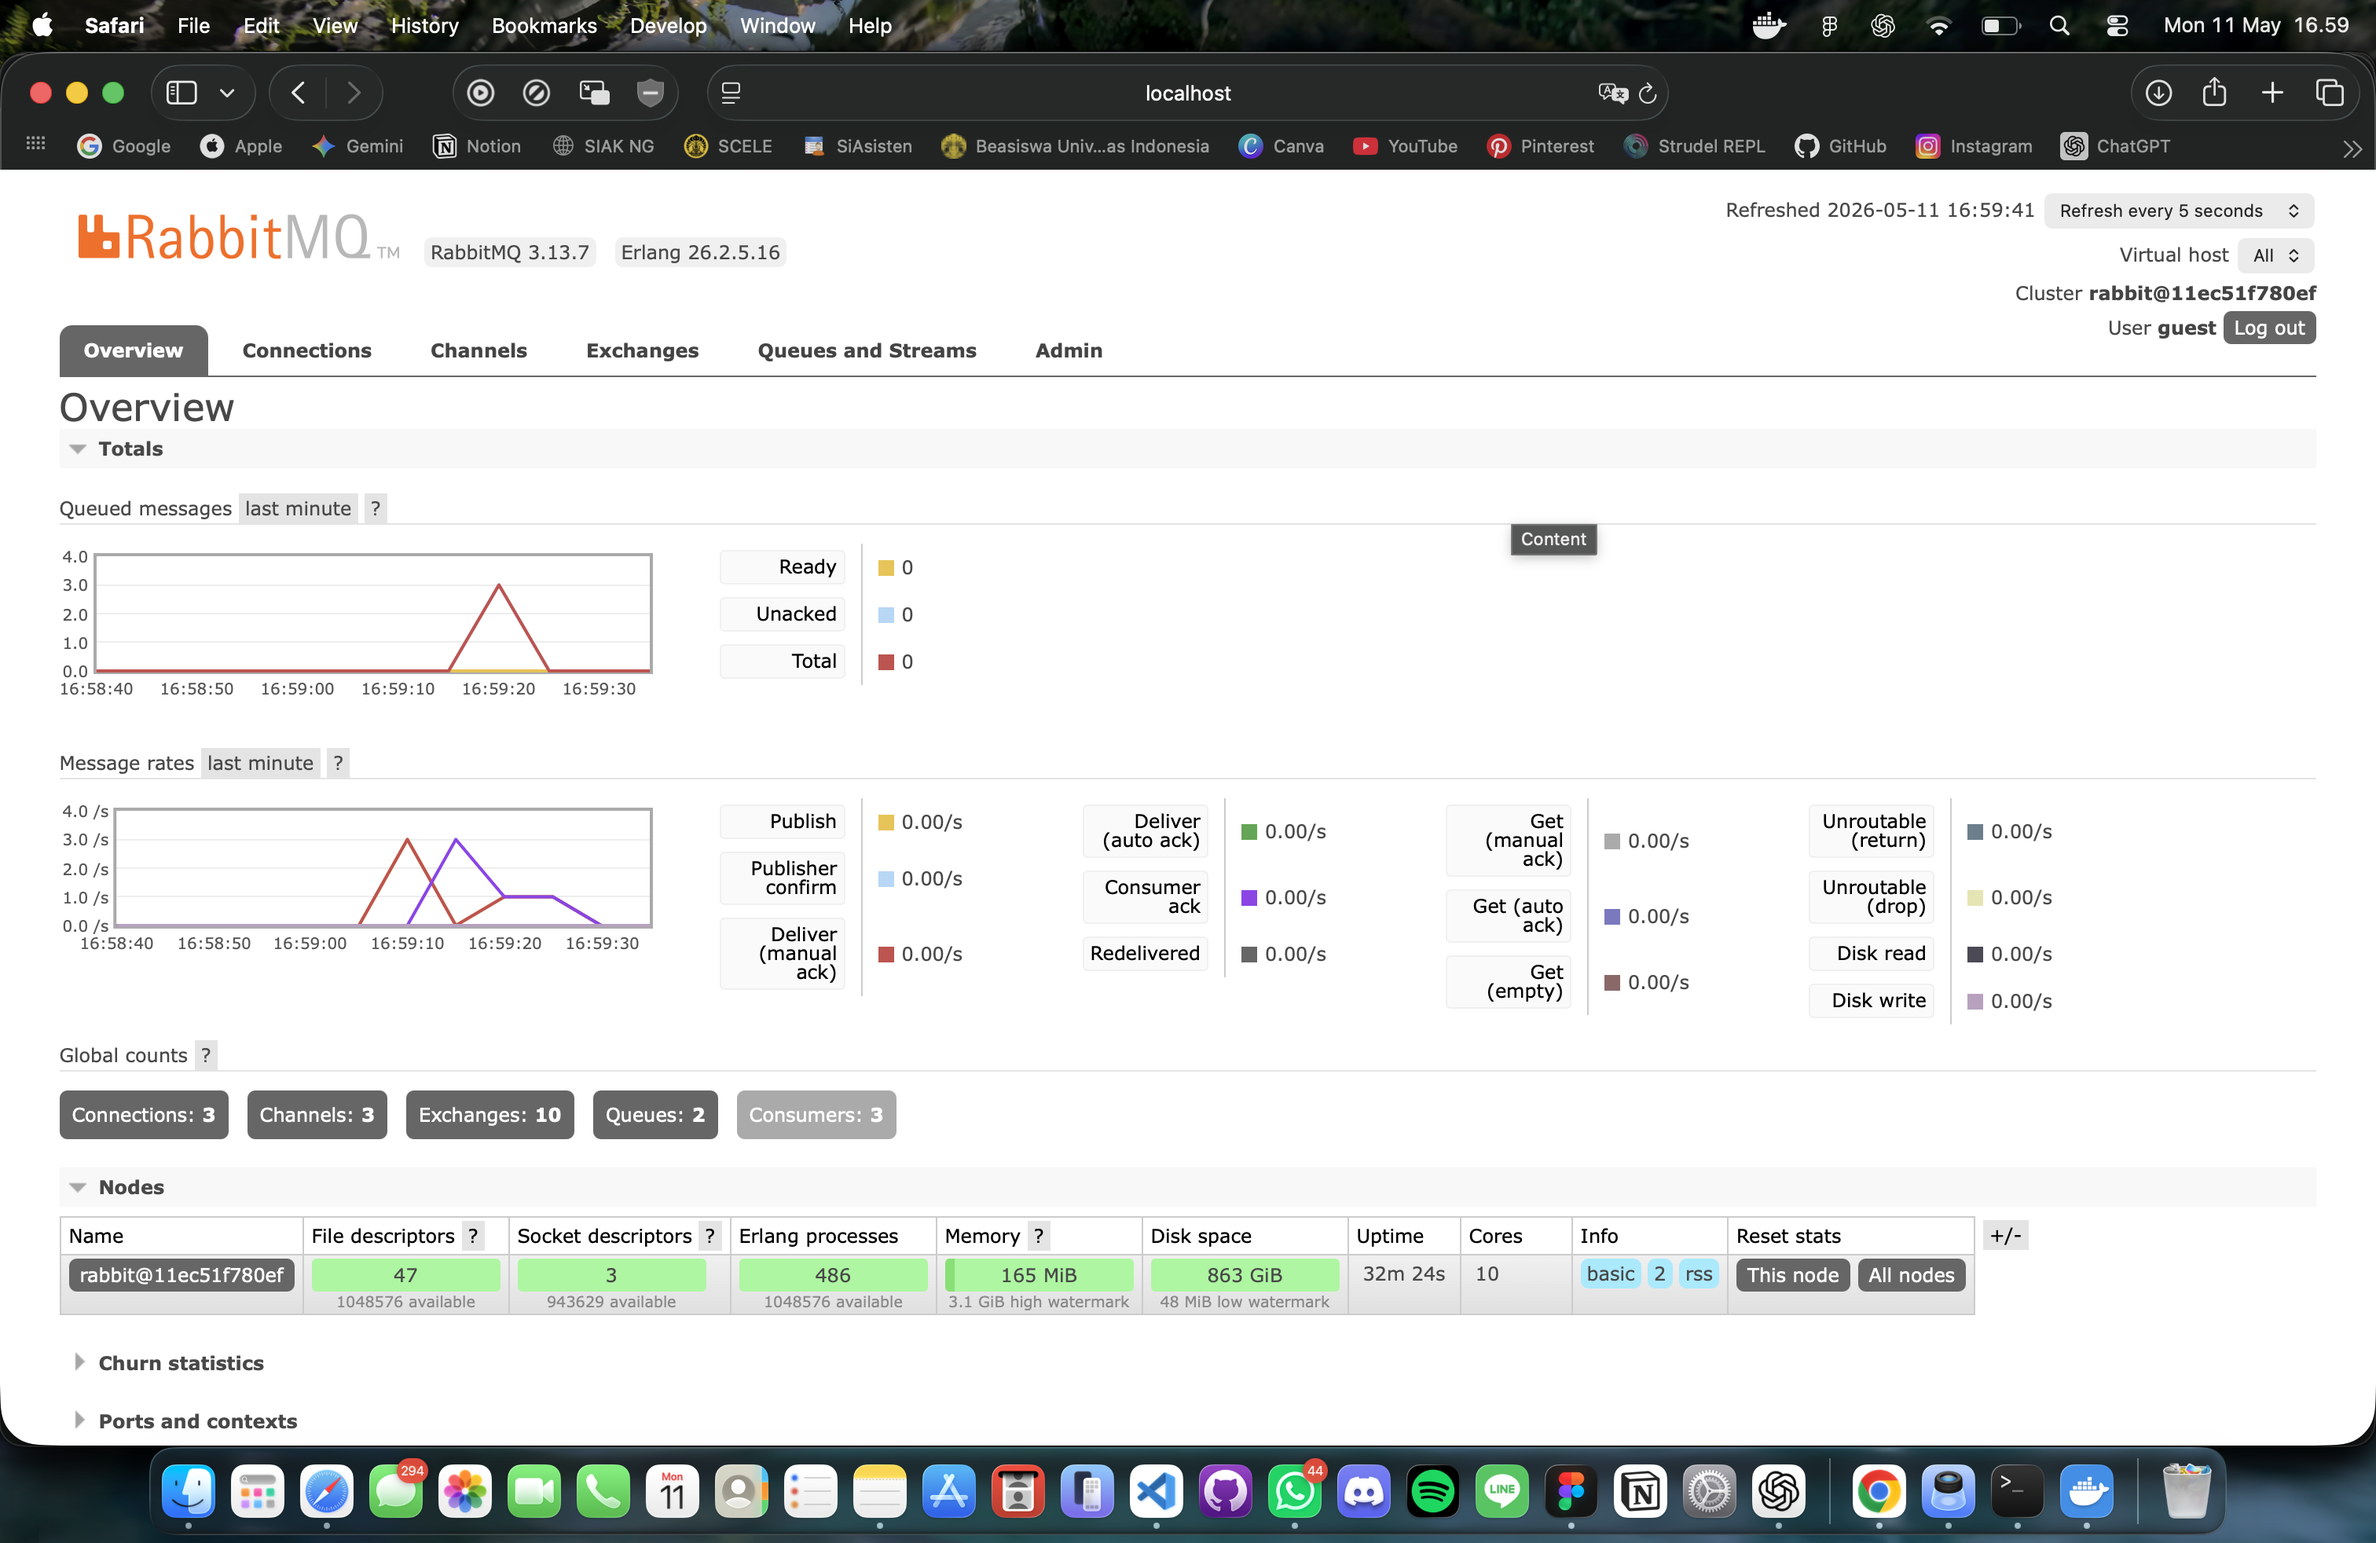
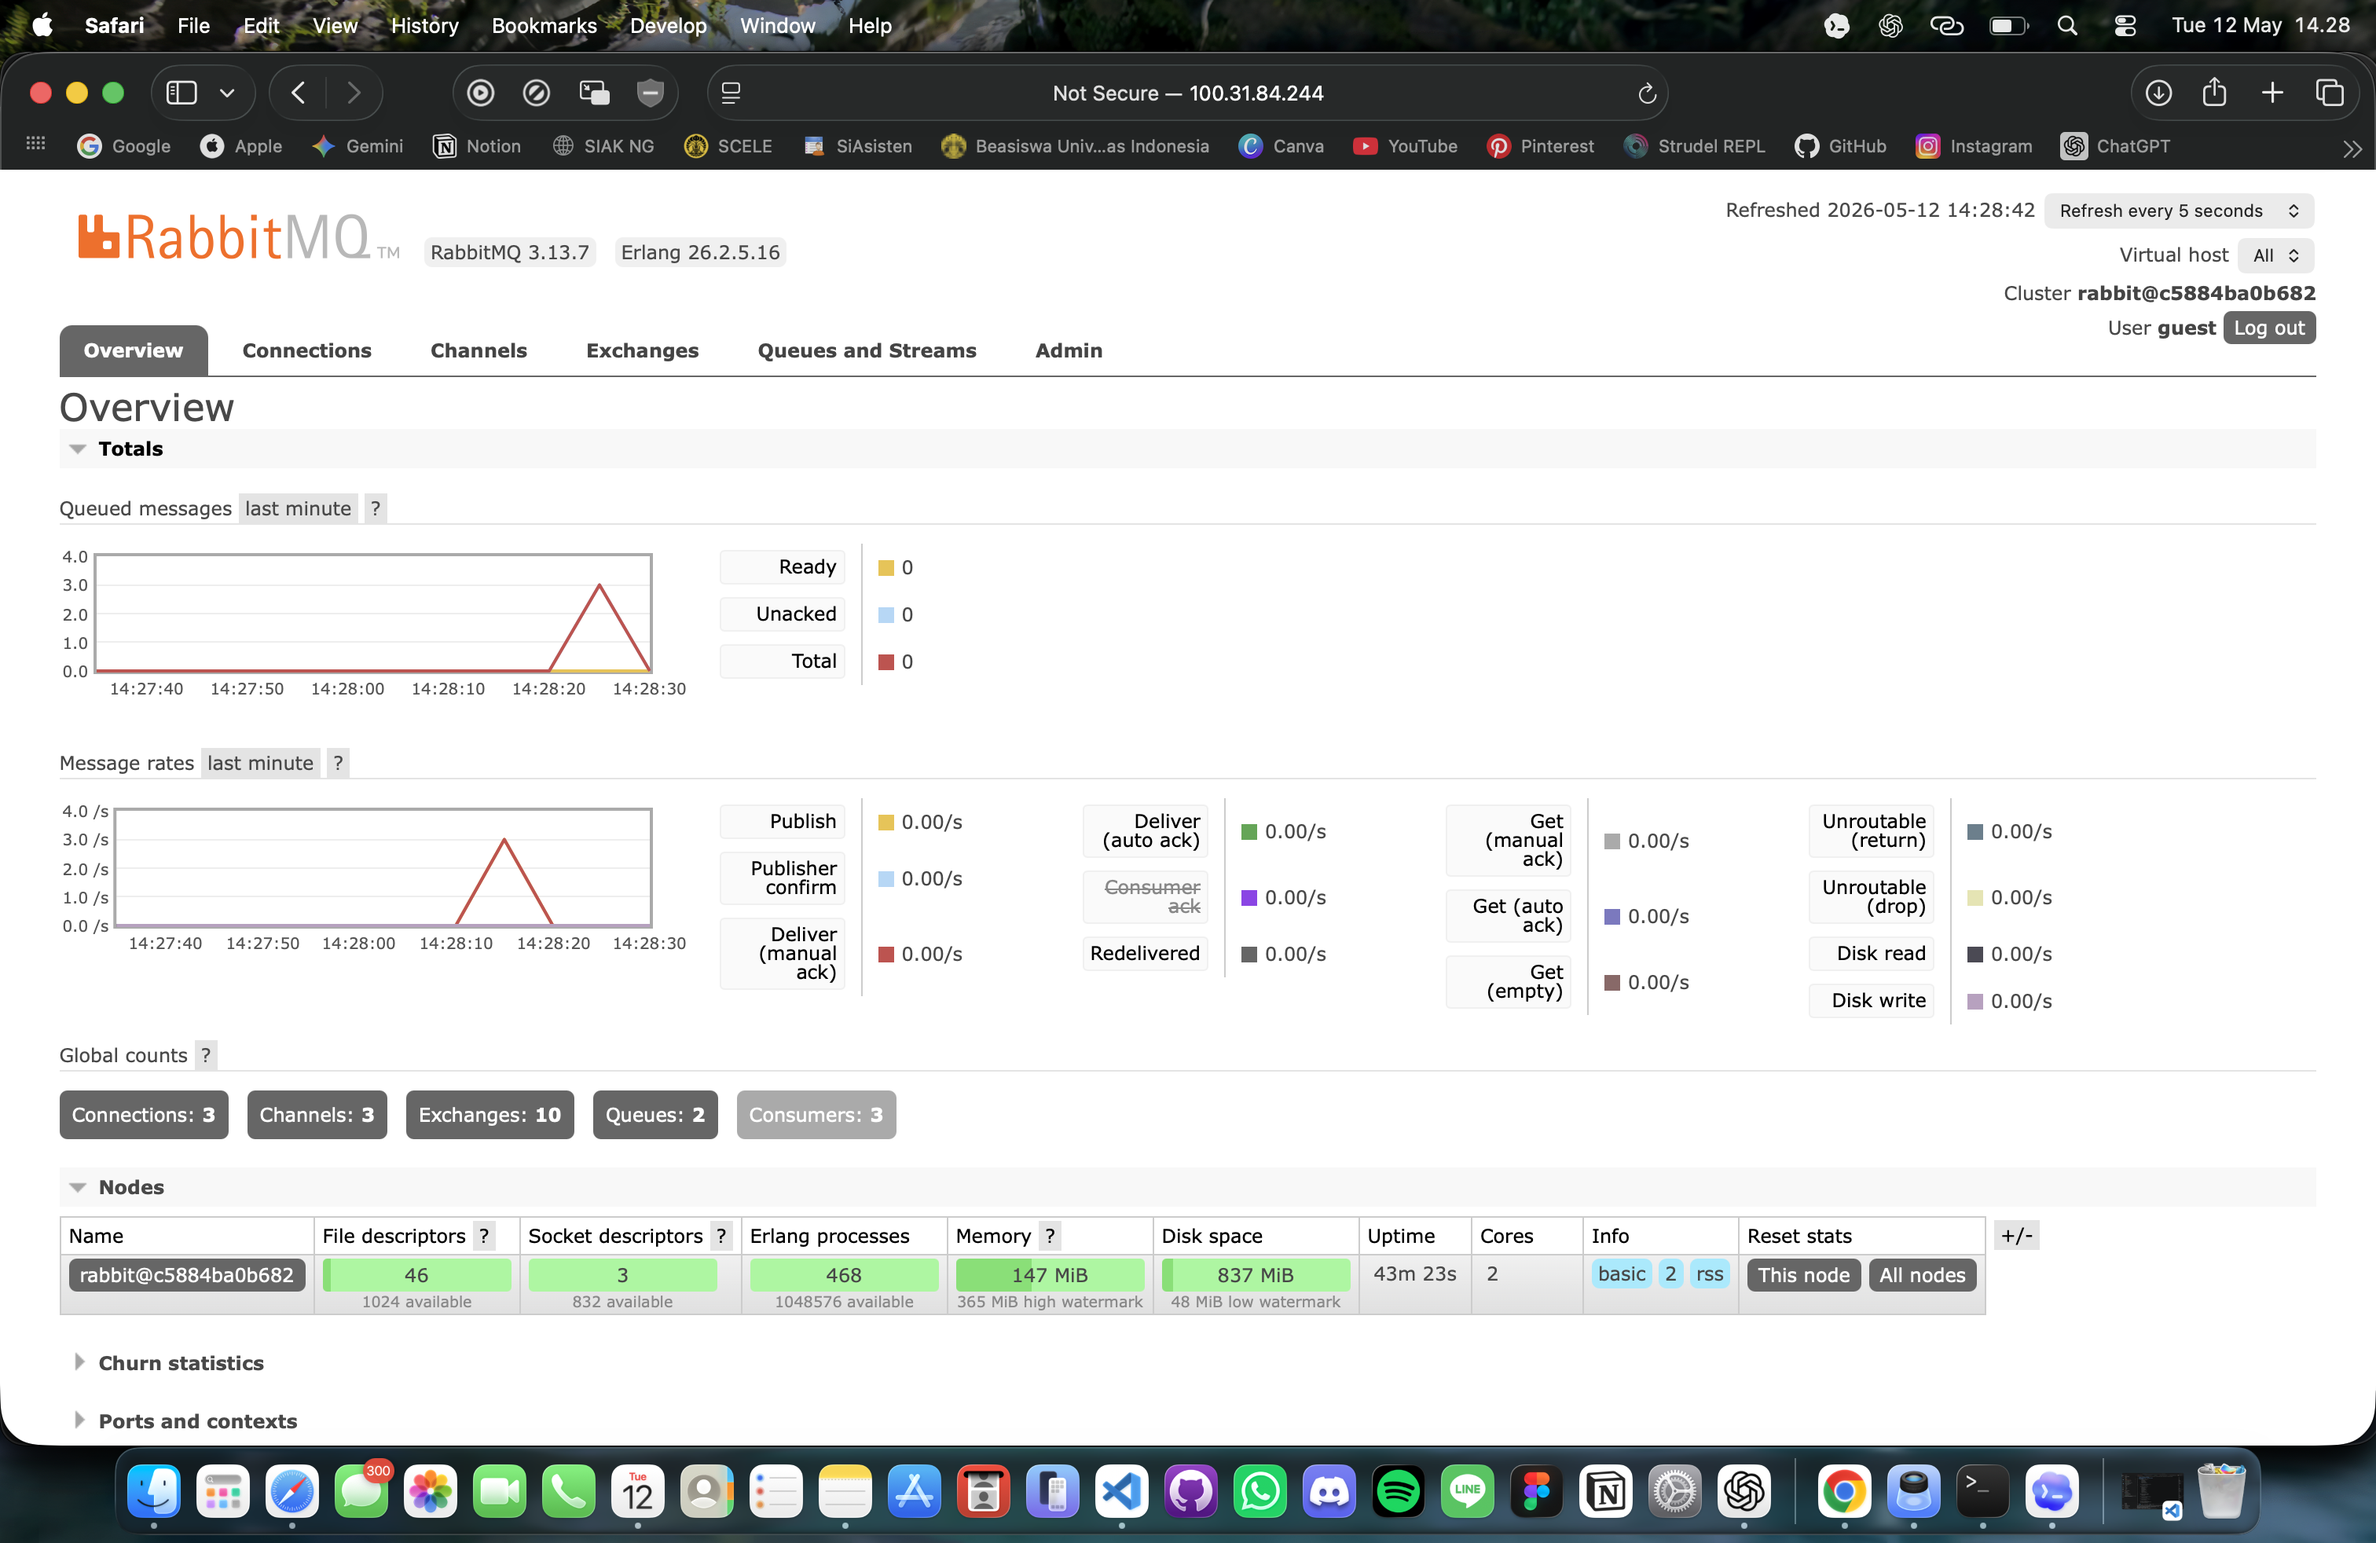
Simulate slow subscriber on cloud

diff --git a/README.md b/README.md
@@ -20,3 +20,27 @@ One possible improvement in the code is to handle errors from `publish_event` an
 ![Three Subscribers Console](images/three-subscribers-console.png)
 
 ![Three Subscribers RabbitMQ](images/three-subscribers-rabbitmq.png)
+
+# Bonus
+## Simulating Slow Subscriber
+
+In this experiment, I made the subscriber process messages more slowly by adding a delay before each message is processed. Then, I ran the publisher several times quickly.
+
+Because the publisher sends messages faster than the subscriber can consume them, the number of queued messages in RabbitMQ temporarily increases. This can be seen from the RabbitMQ queue graph, where the queued messages rise before being consumed gradually by the subscriber.
+
+![Slow Subscriber Queue](images/slow-subscriber-queue.png)
+The terminal output also shows that the subscriber receives the messages one by one with a delay, while the publisher can still send messages to RabbitMQ independently.
+
+![Slow Subscriber Console](images/slow-subscriber-console.png)
+## Running Multiple Subscribers
+
+In this experiment, I ran at least three subscribers at the same time. All subscribers are connected to the same RabbitMQ broker and consume messages from the same queue.
+
+RabbitMQ distributes the messages among the available subscribers. This makes message processing faster because the workload is shared across multiple consumers.
+
+The RabbitMQ dashboard shows multiple consumers connected to the queue, which means that the broker successfully distributes messages to more than one subscriber.
+
+![Three Subscribers RabbitMQ](images/three-subscribers-rabbitmq.png)
+The terminal output shows that the messages are received by the active subscribers. This proves that the broker does not depend on only one subscriber to process all events.
+
+![Three Subscribers Console](images/three-subscribers-console-aws.png)
